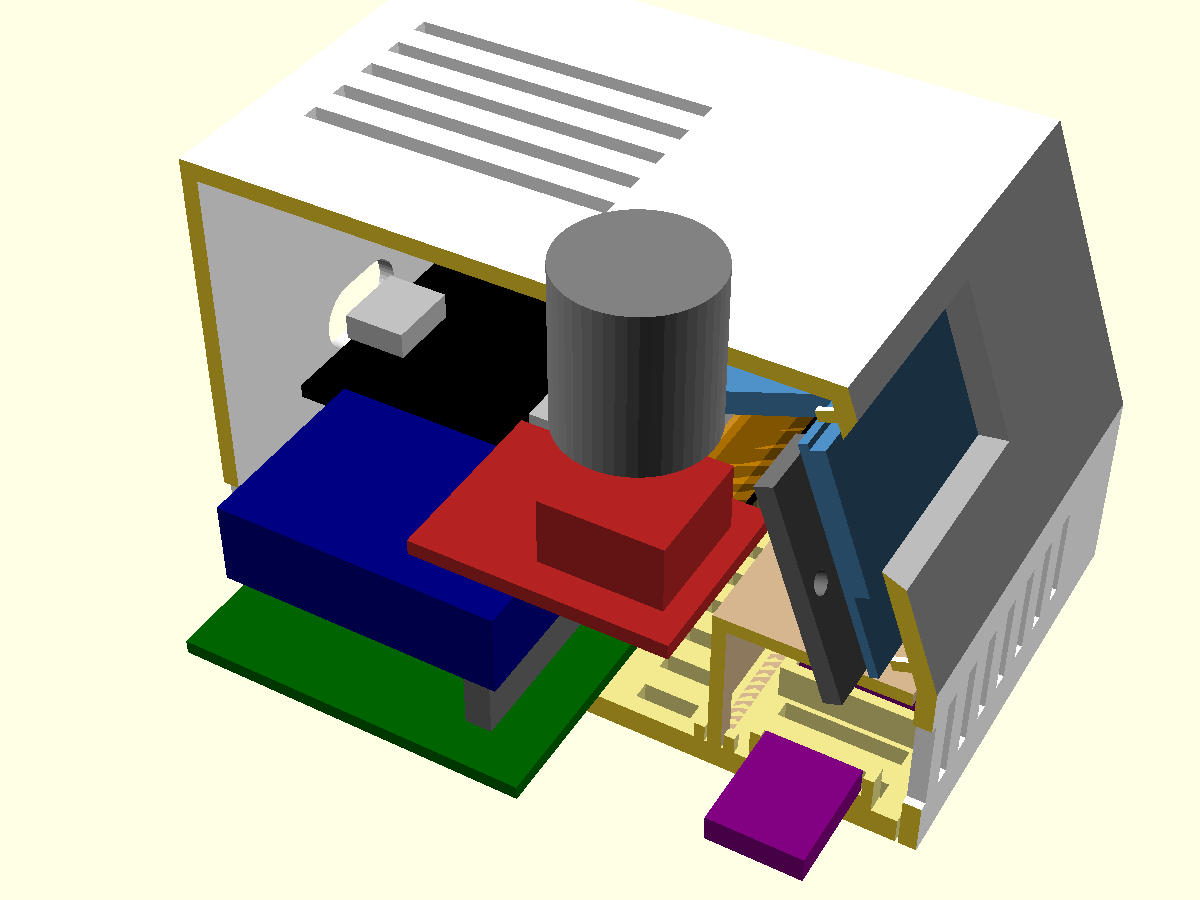
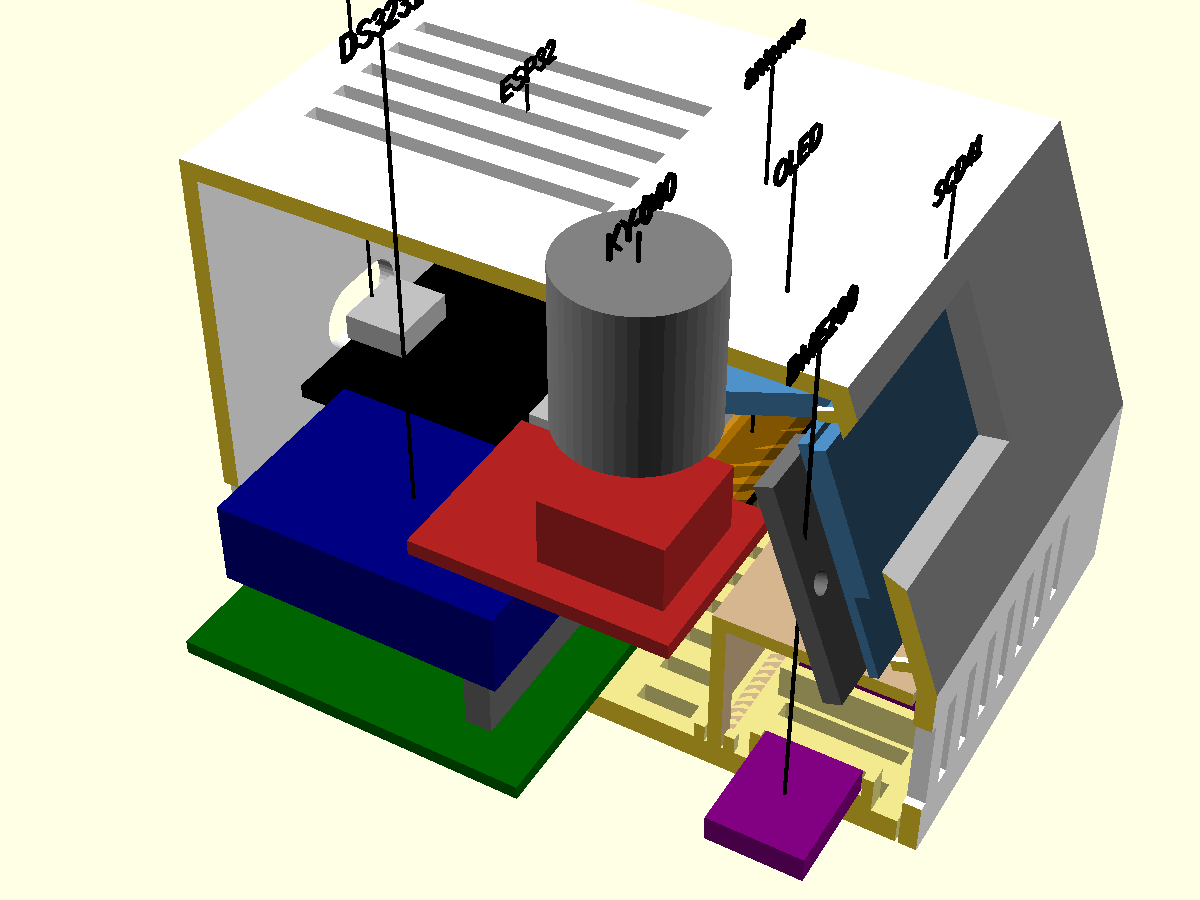
Enclosure: labels over the module stand-ins

diff --git a/enclosure/README.md b/enclosure/README.md
@@ -11,6 +11,12 @@ enclosure/export.sh   # clash check, then stl/*.stl (gitignored) + renders/*.png
 
 The clash check fails if any printed part overlaps a module stand-in.
 
+To look inside: **Window → Customizer**, untick `show_shell` (also
+`show_base`, `show_hood`, `show_clamps`, `show_labels`), or set `cut`.
+Stand-in colours: OLED steel blue, ESP32 black (antenna end orange),
+carrier green, DS3231 navy, KY-040 red with a grey cap, sensors purple;
+`show_labels` puts their names over them.
+
 ![front](renders/front.png) ![inside](renders/inside.png)
 
 ## Layout
